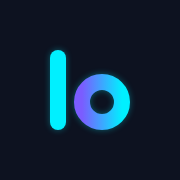
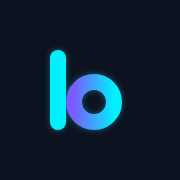
fix: el aro de la b toca la barra, como en el lienzo

Changed region(s): [[0.3611, 0.3889, 0.75, 0.7222]]

diff --git a/BITACORA.md b/BITACORA.md
@@ -35,7 +35,7 @@ Pendientes, en orden:
 
 ### 2026-10-16 (23)
 
-- La "b" ahora es la del lienzo de marca, a pedido del dueño: barra y aro separados por medio trazo, barra cian sólida y aro con degradé violeta→cian. Brillo más suave: solo cian, en reposo 0,5rem al 35 % y en el pico 1rem al 55 % (antes había además un halo violeta grande). Sigue pulsando (RF-02).
+- La "b" ahora es la del lienzo de marca, a pedido del dueño: el aro toca la barra (antes se superponían), barra cian sólida y aro con degradé violeta→cian. Brillo más suave: solo cian, en reposo 0,5rem al 35 % y en el pico 1rem al 55 % (antes había además un halo violeta grande). Sigue pulsando (RF-02).
 - Íconos chicos como la lámina de aplicaciones: favicon = "b" oscura sobre disco cian (se lee en pestañas claras y oscuras, cierra el problema de contraste de la entrada 15); ícono de iOS = "b" de color sobre tile superficie `#0D1220`. Un solo SVG: `pnpm icons` oculta el disco y recolorea la "b" con CSS para el ícono de iOS.
 - Foto de "Quién soy" con borde cian sólido y glow, como el perfil de Instagram del lienzo.
 
